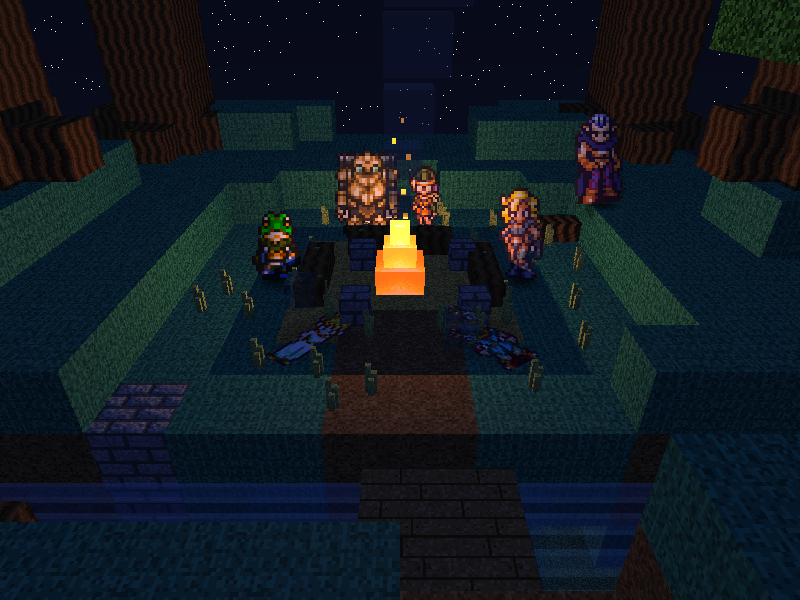
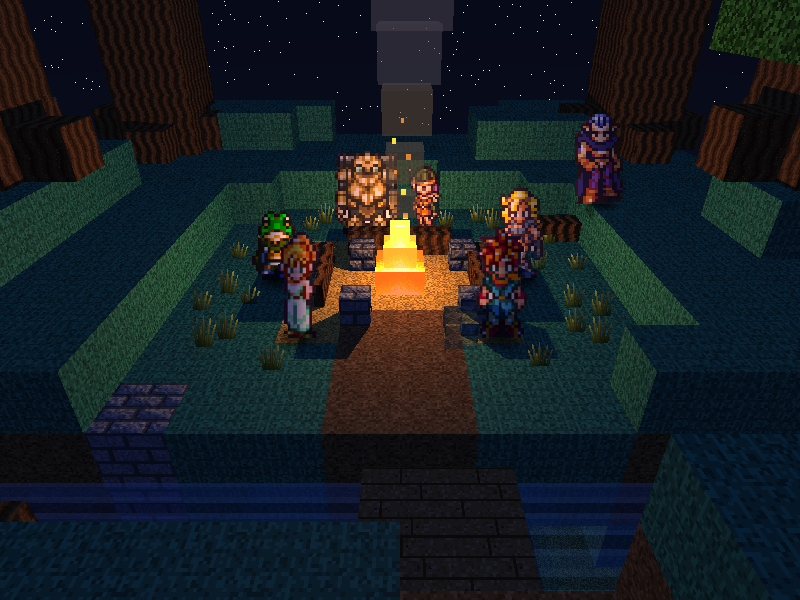
feat(scene): Se corrigen troncos y fuego, se posiciona la party de pie con pasto en periferia y capturas.

Changed region(s): [[0.2188, 0.0, 0.7812, 0.69], [0.7188, 0.42, 0.75, 0.45]]

diff --git a/src/scene.rs b/src/scene.rs
@@ -97,17 +97,17 @@ impl Scene {
             Vector3::new(-0.45, ground_y, -0.45),
             Vector3::new(0.90, 0.48, 0.90),
             mats.fire_base,
-        ).with_tile_uv(false));
+        ).without_shadow().with_tile_uv(false));
         cubes.push(Cube::new_box(
             Vector3::new(-0.30, ground_y + 0.45, -0.30),
             Vector3::new(0.60, 0.42, 0.60),
             mats.fire_mid,
-        ).with_tile_uv(false));
+        ).without_shadow().with_tile_uv(false));
         cubes.push(Cube::new_box(
             Vector3::new(-0.175, ground_y + 0.84, -0.175),
             Vector3::new(0.35, 0.38, 0.35),
             mats.fire_top,
-        ).with_tile_uv(false));
+        ).without_shadow().with_tile_uv(false));
 
         // --- Brasas: 7 cubos diminutos (~0.08) emisivos flotando sobre el fuego ---
         let ember_offsets = [
@@ -127,50 +127,36 @@ impl Scene {
             ).without_shadow().with_tile_uv(false));
         }
 
-        // --- Humo: 7 cubos grises translúcidos subiendo hasta ~6 bloques, creciendo progresivamente ---
-        let smoke_steps = [
-            (-0.04, ground_y + 1.45, 0.02, 0.45),
-            (0.06, ground_y + 2.15, 0.07, 0.60),
-            (0.14, ground_y + 2.90, 0.14, 0.78),
-            (0.25, ground_y + 3.75, 0.22, 0.98),
-            (0.38, ground_y + 4.65, 0.32, 1.18),
-            (0.52, ground_y + 5.60, 0.44, 1.38),
-            (0.68, ground_y + 6.60, 0.58, 1.58),
-        ];
-        for &(sx, sy, sz, ss) in &smoke_steps {
+        // --- Humo: 8 cubos translúcidos subiendo con dispersión y ligera emisión propia ---
+        for i in 0..8 {
+            let t = i as f32 / 7.0;
+            let sy = ground_y + 1.40 + t * 5.2;
+            let ss = 0.45 + t * 1.15; // de 0.45 a 1.60
+
+            // Deriva lateral continua suave hacia +X y +Z
+            let drift_x = t * 0.55;
+            let drift_z = t * 0.45;
+
+            // Desplazamiento determinístico ±0.15-0.25 para romper la columna recta
+            let jitter_x = ((i * 17 + 5) % 9) as f32 / 8.0 * 0.40 - 0.20;
+            let jitter_z = ((i * 23 + 3) % 9) as f32 / 8.0 * 0.40 - 0.20;
+
+            let sx = drift_x + jitter_x;
+            let sz = drift_z + jitter_z;
+
+            let mat = if i <= 2 {
+                mats.smoke_base
+            } else if i <= 5 {
+                mats.smoke
+            } else {
+                mats.smoke_top
+            };
+
             cubes.push(Cube::new_box(
                 Vector3::new(sx - ss * 0.5, sy, sz - ss * 0.5),
                 Vector3::new(ss, ss * 0.85, ss),
-                mats.smoke,
+                mat,
             ).without_shadow().with_tile_uv(false));
-        }
-
-        // --- Pasto verde-amarillo: mechones en grupos de 3 hojas finas (~0.08) ---
-        let tuft_coords = [
-            (-1.4, 0.6), (-0.8, -1.5), (1.5, -0.9), (0.7, 1.6),
-            (-1.8, -1.1), (1.9, 0.8), (-0.5, 1.8), (1.6, -1.6),
-            (-1.2, 1.3), (0.9, -1.8), (-1.9, 0.3), (1.8, 1.4),
-            (-0.7, -1.9), (1.3, 1.7), (-1.6, -0.6), (1.7, -0.4),
-            (-2.6, 1.2), (2.8, -1.1), (-1.2, 2.8), (1.1, -2.9),
-            (-2.9, -1.5), (3.1, 0.9), (-0.4, 3.2), (0.5, -3.3),
-            (-3.2, 0.4), (3.3, -1.8), (-2.1, 2.6), (2.2, -2.7),
-            (-2.7, -2.2), (2.9, 2.1), (-1.8, -3.0), (1.9, 3.1),
-            (-3.5, 1.0), (3.6, -0.6), (-0.9, 3.5), (1.0, -3.6),
-        ];
-        for &(tx, tz) in &tuft_coords {
-            let ty = terrain_height_at(&cubes, tx, tz);
-            let blade_offsets = [
-                (-0.04, -0.03, 0.46),
-                (0.04, -0.02, 0.35),
-                (0.00, 0.04, 0.27),
-            ];
-            for &(bx, bz, bh) in &blade_offsets {
-                cubes.push(Cube::new_box(
-                    Vector3::new(tx + bx - 0.04, ty, tz + bz - 0.04),
-                    Vector3::new(0.08, bh, 0.08),
-                    mats.tuft,
-                ).without_shadow().with_tile_uv(false));
-            }
         }
 
         // --- Troncos horizontales para sentarse (~2x0.5x0.5 con textura bark y mapa normal) ---
@@ -228,6 +214,8 @@ impl Scene {
             ("assets/party/Frog.png", -2.40, -0.10, 0.75),
             ("assets/party/Ayla.png", 2.35, -0.10, 1.00),
             ("assets/party/Magus.png", 4.20, -1.60, 1.05),
+            ("assets/party/Marle.png", -1.65, 1.85, 0.95),
+            ("assets/party/Chrono.png", 1.65, 1.85, 1.00),
         ];
 
         for &(tex, x, z, mult) in &standing_party {
@@ -238,42 +226,30 @@ impl Scene {
             billboards.push(Billboard::new(Vector3::new(x, y, z), width, height, tex));
         }
 
-        // --- Personajes acostados al frente (GroundSprite: Marle y Chrono) ---
-        let mut ground_sprites = Vec::new();
+        // --- Mechones de pasto en la periferia de la clarería (Billboards con textura grass_tuft) ---
+        let tuft_positions = [
+            (-2.7, 0.8), (2.8, -0.6), (-1.2, -2.8), (1.1, -2.9),
+            (-2.9, -1.5), (3.1, 0.9), (-0.4, -3.2), (0.5, -3.4),
+            (-3.2, 0.4), (3.3, -1.8), (-2.1, -2.6), (2.2, -2.7),
+            (-2.7, -2.2), (2.9, -2.1), (-1.8, -3.0), (1.9, -3.1),
+            (-3.5, 1.0), (3.6, -0.6), (-2.8, 1.9), (2.9, 1.7),
+            (-3.4, -1.1), (3.5, 1.2), (-1.9, 2.7), (2.1, 2.6),
+            (-3.1, 2.1), (3.2, 2.0),
+        ];
+        for (idx, &(tx, tz)) in tuft_positions.iter().enumerate() {
+            let ty = terrain_height_at(&cubes, tx, tz);
+            let h_var = ((idx * 37 + 11) % 10) as f32 / 9.0;
+            let tuft_h = 0.35 + h_var * 0.20;
+            let tuft_w = 0.50;
+            billboards.push(Billboard::new(
+                Vector3::new(tx, ty, tz),
+                tuft_w,
+                tuft_h,
+                "assets/grass_tuft.png",
+            ));
+        }
 
-        // Chrono: al frente a la derecha, acostado con la cabeza hacia el fuego
-        let chrono_tex = "assets/party/Chrono.png";
-        let chrono_h = base_height * 1.00;
-        let chrono_w = chrono_h * get_png_aspect_ratio(chrono_tex);
-        let chrono_x = 1.35f32;
-        let chrono_z = 1.85f32;
-        let chrono_y = terrain_height_at(&cubes, chrono_x, chrono_z) + 0.03;
-        let to_fire_chrono = Vector3::new(-chrono_x, 0.0, -chrono_z).normalized();
-        let angle_chrono = to_fire_chrono.x.atan2(to_fire_chrono.z);
-        ground_sprites.push(crate::billboard::GroundSprite::new(
-            Vector3::new(chrono_x, chrono_y, chrono_z),
-            chrono_w,
-            chrono_h,
-            angle_chrono,
-            chrono_tex,
-        ));
-
-        // Marle: al frente a la izquierda, acostada con la cabeza hacia el fuego
-        let marle_tex = "assets/party/Marle.png";
-        let marle_h = base_height * 0.95;
-        let marle_w = marle_h * get_png_aspect_ratio(marle_tex);
-        let marle_x = -1.35f32;
-        let marle_z = 1.85f32;
-        let marle_y = terrain_height_at(&cubes, marle_x, marle_z) + 0.03;
-        let to_fire_marle = Vector3::new(-marle_x, 0.0, -marle_z).normalized();
-        let angle_marle = to_fire_marle.x.atan2(to_fire_marle.z);
-        ground_sprites.push(crate::billboard::GroundSprite::new(
-            Vector3::new(marle_x, marle_y, marle_z),
-            marle_w,
-            marle_h,
-            angle_marle,
-            marle_tex,
-        ));
+        let ground_sprites = Vec::new();
 
         let grid = crate::grid::VoxelGrid::build(&cubes);
 
@@ -307,6 +283,7 @@ impl Scene {
             "assets/water.png",
             "assets/straw.png",
             "assets/tuft.png",
+            "assets/grass_tuft.png",
             "assets/planks.png",
             "assets/party/Chrono.png",
             "assets/party/Marle.png",

diff --git a/src/main.rs b/src/main.rs
@@ -50,7 +50,10 @@ fn main() {
     };
 
     let args: Vec<String> = std::env::args().collect();
-    let headless = args.iter().any(|a| a == "--screenshot");
+    let log_normal = args.iter().any(|a| a == "--log-normal");
+    let log_nonormal = args.iter().any(|a| a == "--log-nonormal");
+    let smoke_view = args.iter().any(|a| a == "--smoke");
+    let headless = args.iter().any(|a| a == "--screenshot") || log_normal || log_nonormal || smoke_view;
     let rotated = args.iter().any(|a| a == "--rotated");
     let elevated = args.iter().any(|a| a == "--elevated");
     let closeup = args.iter().any(|a| a == "--closeup");
@@ -60,12 +63,32 @@ fn main() {
     let mut scene = Scene::campfire_diorama();
     scene.load_textures(&mut rl, &thread);
 
-    let mut camera = if closeup {
-        // Primer plano de Marle acostada con cámara rotada ~90 grados
-        let ground_y = scene::terrain_height_at(&scene.cubes, -1.35, 1.85);
+    if log_nonormal {
+        scene.use_normal_maps = false;
+    }
+
+    let _ground_y = scene::terrain_height_at(&scene.cubes, 0.0, 0.0);
+
+    let mut camera = if log_normal || log_nonormal {
+        // Primer plano de un tronco de asiento (Log 3 a X=1.35..1.85, Y=3.0..3.45, Z=-0.9..0.9)
         Camera::new(
-            Vector3::new(-4.2, ground_y + 2.4, 1.85),
-            Vector3::new(-1.35, ground_y + 0.1, 1.85),
+            Vector3::new(0.55, 3.55, 0.00),
+            Vector3::new(1.60, 3.22, 0.00),
+            Vector3::new(0.0, 1.0, 0.0),
+        )
+    } else if smoke_view {
+        // Vista de cerca del humo mirando desde abajo hacia arriba contra las estrellas
+        Camera::new(
+            Vector3::new(0.00, 3.20, 1.20),
+            Vector3::new(0.25, 6.80, 0.20),
+            Vector3::new(0.0, 1.0, 0.0),
+        )
+    } else if closeup {
+        // Primer plano de Marle acostada con cámara rotada ~90 grados
+        let marle_gy = scene::terrain_height_at(&scene.cubes, -1.84, 1.54);
+        Camera::new(
+            Vector3::new(-4.2, marle_gy + 2.2, 1.54),
+            Vector3::new(-1.84, marle_gy + 0.1, 1.54),
             Vector3::new(0.0, 1.0, 0.0),
         )
     } else if elevated {
@@ -185,7 +208,8 @@ fn main() {
             let start = std::time::Instant::now();
             render(&scene, &camera, &mut framebuffer, 1);
             let elapsed = start.elapsed();
-            println!("Render (reposo full res): {:.2} ms (cubos: {})", elapsed.as_secs_f64() * 1000.0, scene.cubes.len());
+            println!("Render (reposo full res): {:.2} ms (cubos: {}, billboards: {}, ground_sprites: {})",
+                elapsed.as_secs_f64() * 1000.0, scene.cubes.len(), scene.billboards.len(), scene.ground_sprites.len());
             let _ = render_texture.update_texture(framebuffer_as_bytes(&framebuffer));
             needs_fullres = false;
             is_moving = false;
@@ -198,7 +222,13 @@ fn main() {
                         img.draw_pixel(x, y, framebuffer[(y * WIDTH + x) as usize]);
                     }
                 }
-                let out_file = if closeup {
+                let out_file = if log_normal {
+                    "screenshot_log_normal.png"
+                } else if log_nonormal {
+                    "screenshot_log_nonormal.png"
+                } else if smoke_view {
+                    "screenshot_smoke.png"
+                } else if closeup {
                     "screenshot_closeup.png"
                 } else if elevated {
                     "screenshot_elevated.png"
